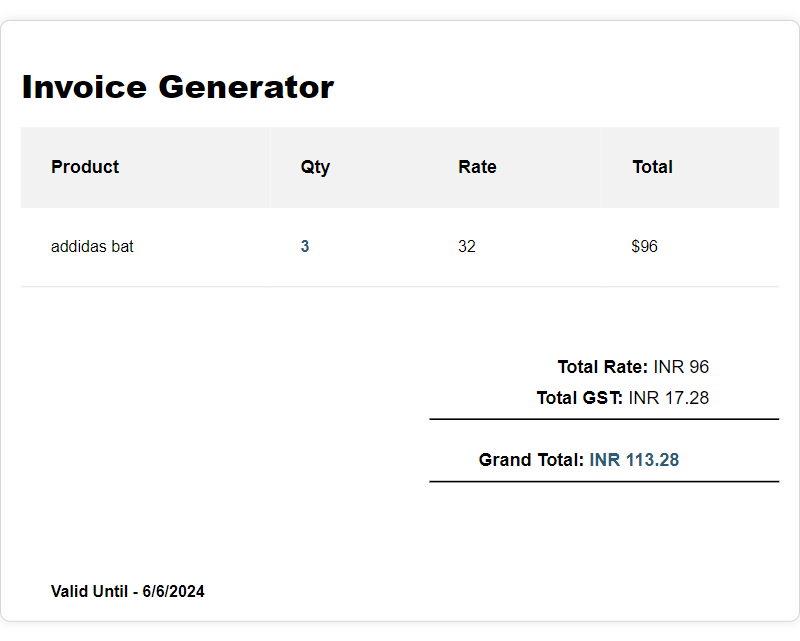
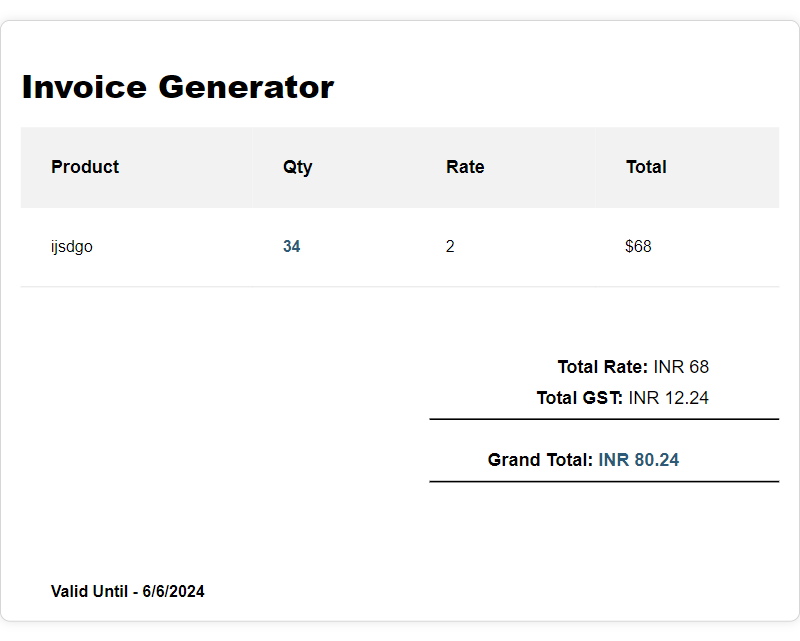
new error when deployed it cannot find chrome while downloading pdf

diff --git a/server/dist/controllers/Invoice.js b/server/dist/controllers/Invoice.js
@@ -71,7 +71,7 @@ exports.createInvoice = (req, res) => __awaiter(void 0, void 0, void 0, function
         console.log("Generated HTML: ", html);
         // Launch Puppeteer
         console.log("Launching Puppeteer...");
-        const browser = yield puppeteer.launch({ headless: true, args: ['--no-sandbox'] });
+        const browser = yield puppeteer.launch({ headless: true, args: ["--no-sandbox", "--disable-setuid-sandbox"] });
         const page = yield browser.newPage();
         console.log("Setting page content...");
         yield page.setContent(html, { waitUntil: 'networkidle0' });

diff --git a/server/dist/controllers/template.html b/server/dist/controllers/template.html
@@ -85,7 +85,7 @@
                     <td style="border-bottom: 1px solid #ddd;">{{name}}</td>
                     <td style="border-bottom: 1px solid #ddd; color: rgb(45, 90, 118); font-weight: bold;">{{quantity}}</td>
                     <td style="border-bottom: 1px solid #ddd;">{{rate}}</td>
-                    <td style="border-bottom: 1px solid #ddd;">${{total}}</td>
+                    <td style="border-bottom: 1px solid #ddd;">INR {{total}}</td>
                 </tr>
                 {{/each}}
             </tbody>

diff --git a/server/src/controllers/template.html b/server/src/controllers/template.html
@@ -85,7 +85,7 @@
                     <td style="border-bottom: 1px solid #ddd;">{{name}}</td>
                     <td style="border-bottom: 1px solid #ddd; color: rgb(45, 90, 118); font-weight: bold;">{{quantity}}</td>
                     <td style="border-bottom: 1px solid #ddd;">{{rate}}</td>
-                    <td style="border-bottom: 1px solid #ddd;">${{total}}</td>
+                    <td style="border-bottom: 1px solid #ddd;">INR {{total}}</td>
                 </tr>
                 {{/each}}
             </tbody>

diff --git a/server/src/controllers/Invoice.ts b/server/src/controllers/Invoice.ts
@@ -75,7 +75,7 @@ exports.createInvoice = async (req: CustomRequest, res: Response) => {
 
     // Launch Puppeteer
     console.log("Launching Puppeteer...");
-    const browser = await puppeteer.launch({ headless: true, args: ['--no-sandbox'] });
+    const browser = await puppeteer.launch({ headless: true, args: ["--no-sandbox", "--disable-setuid-sandbox"] });
     const page = await browser.newPage();
 
     console.log("Setting page content...");
